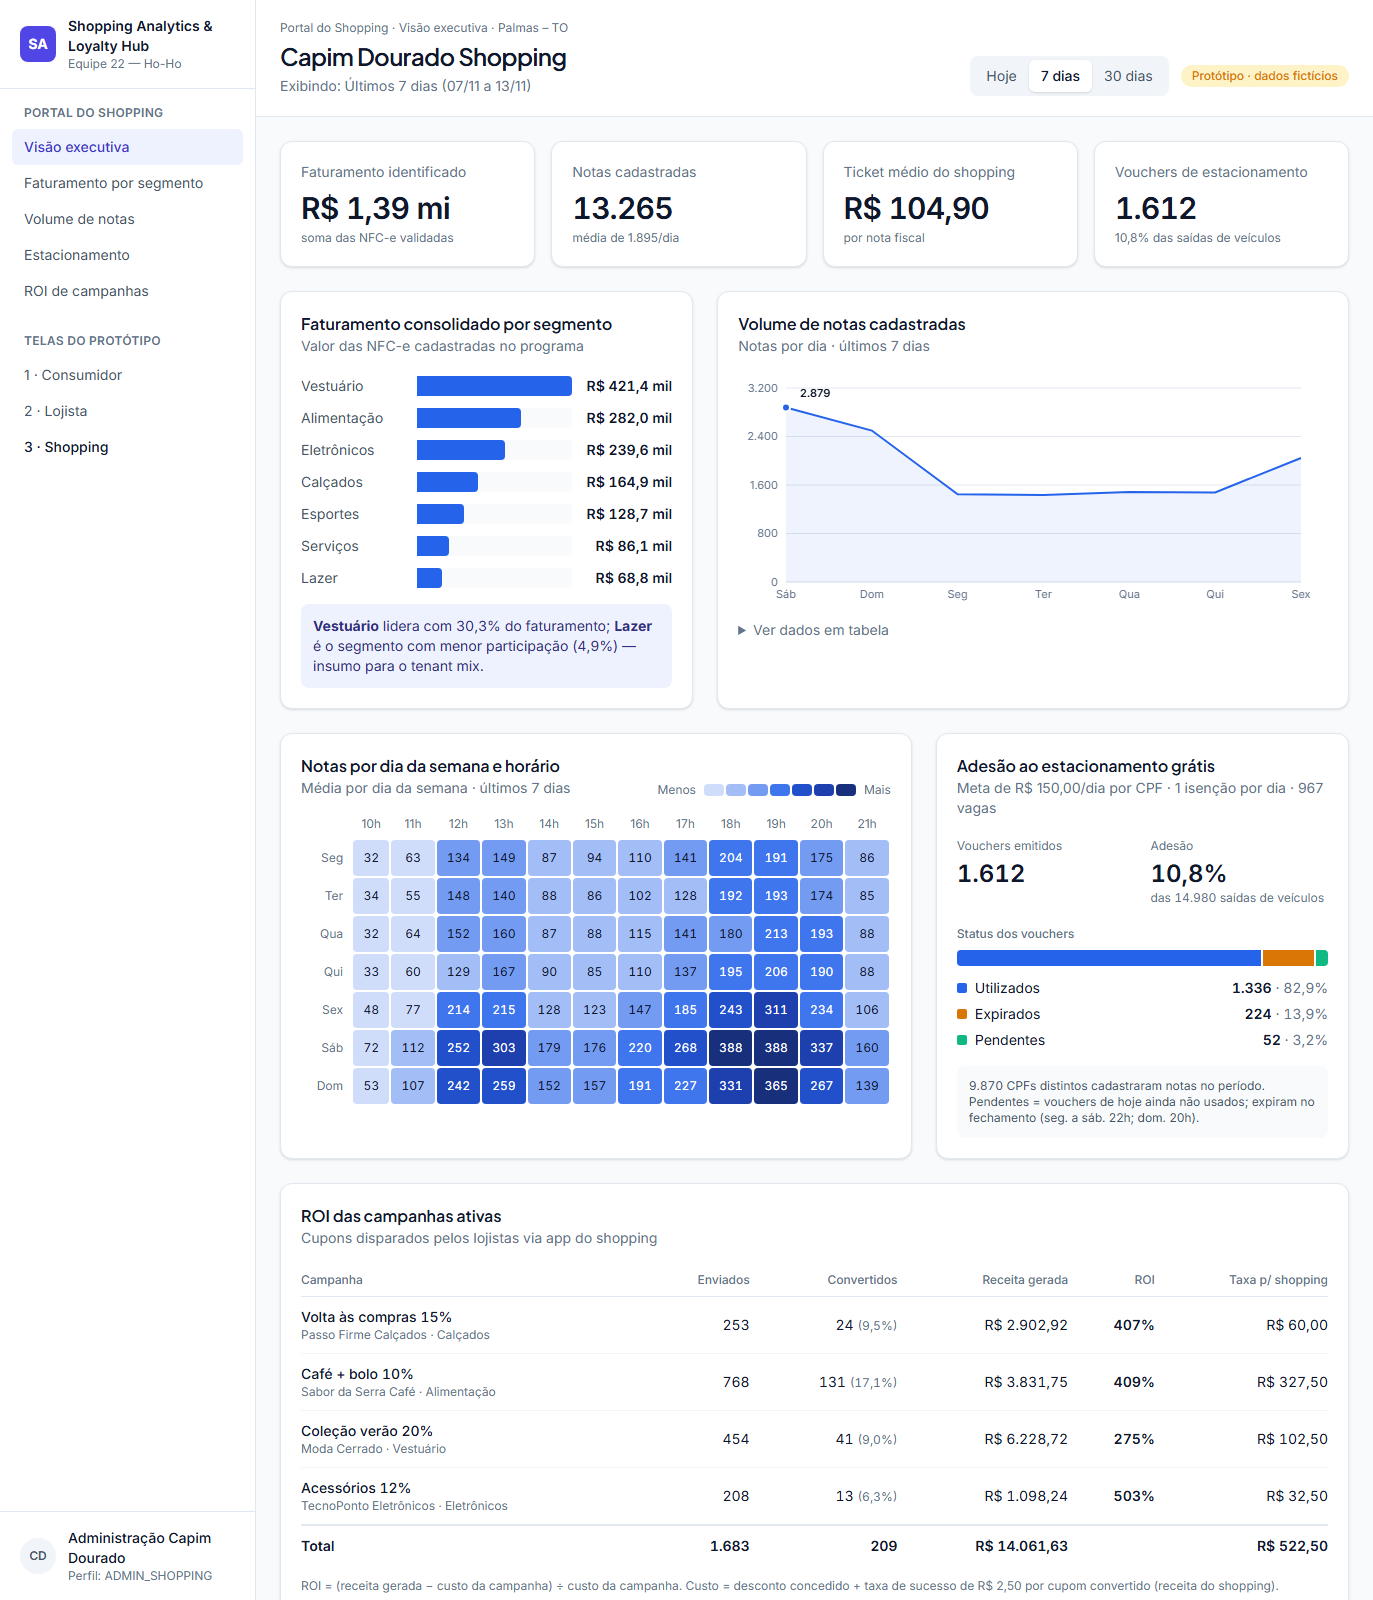
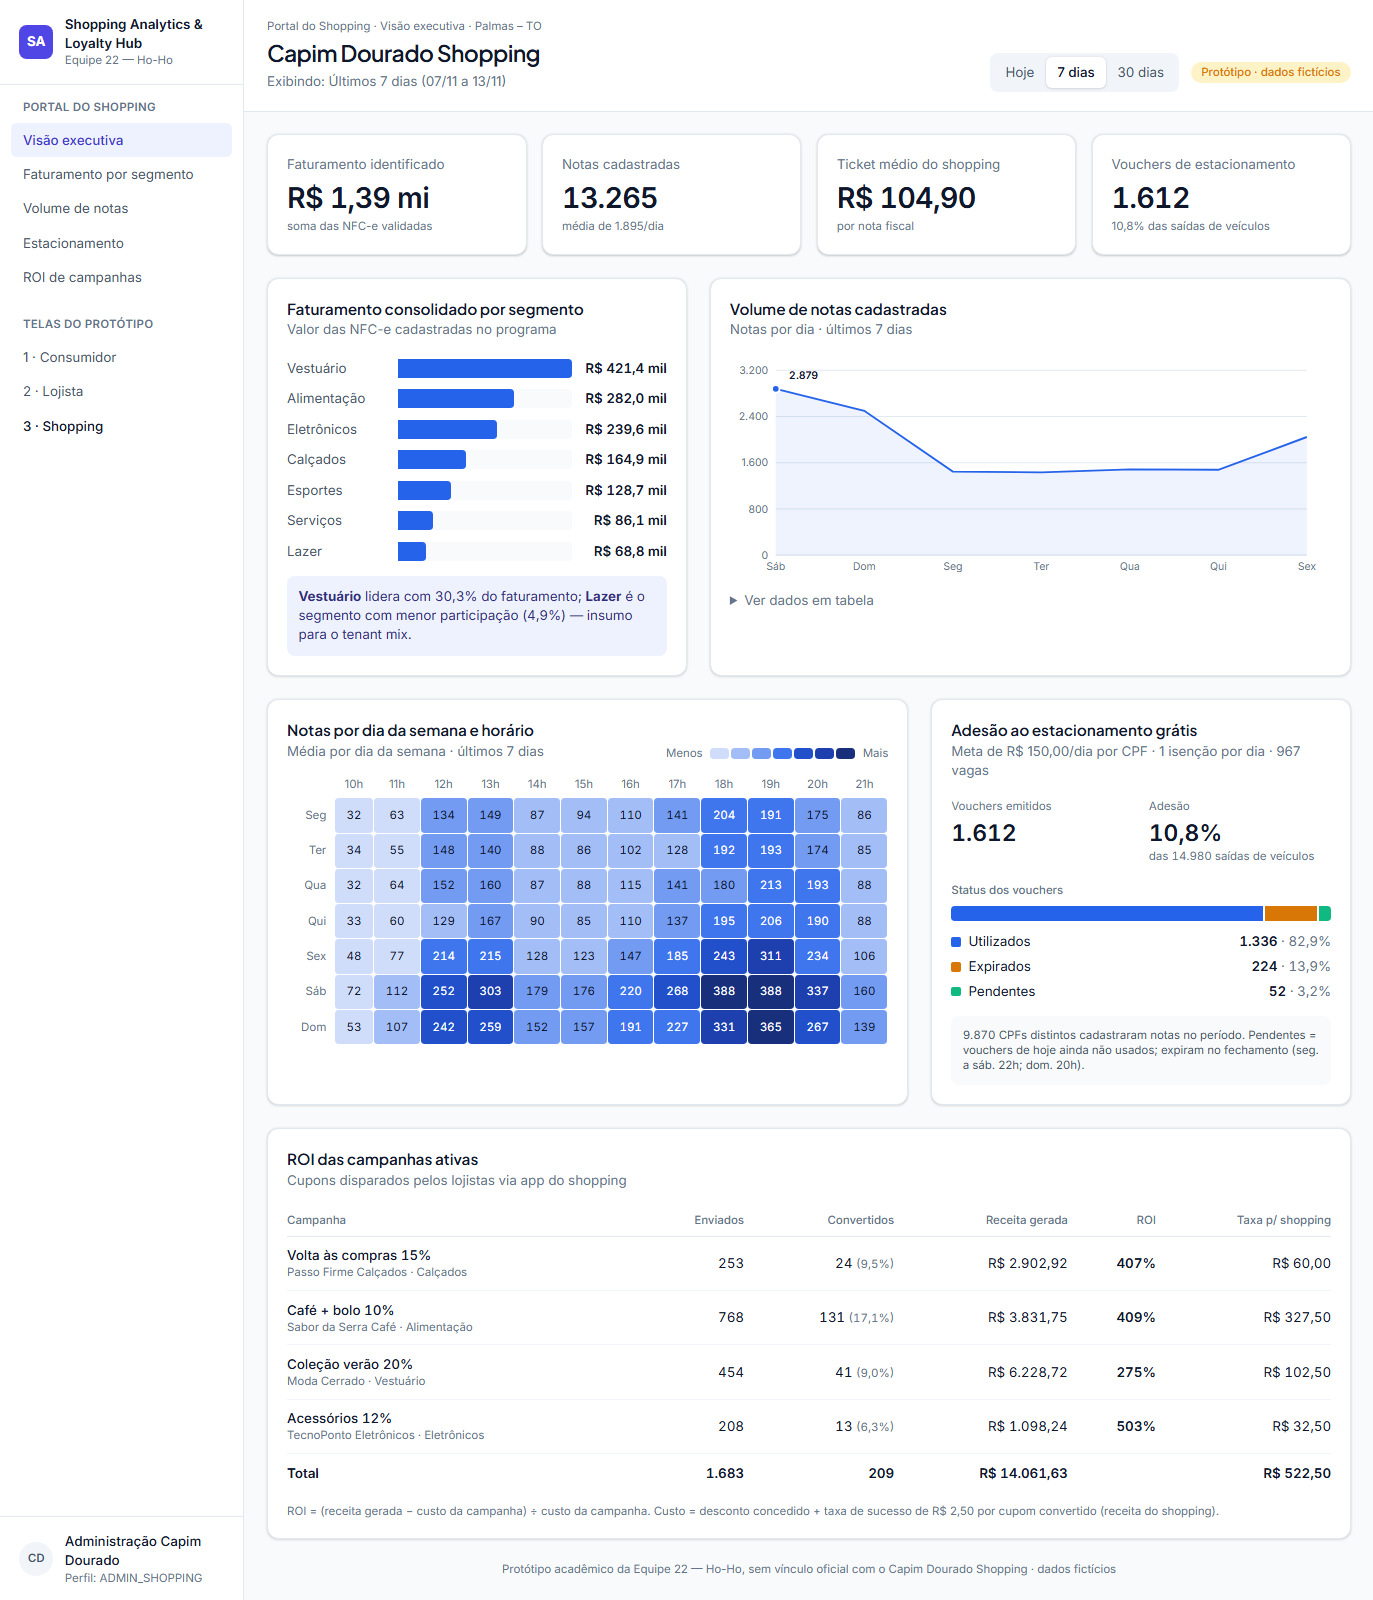
docs(specs): ajusta a prova do C1 a escala da captura da ORD-12
Decisões do usuário durante o BUILD: a marca de dado fictício fica como está (C14 fechado) e a imagem de execução do C1 passa a ser tirada em janela de 1440 x 1678 a escala 0,9535, a escala medida na figura4. Imagem refeita nessa condição.

diff --git a/.specs/features/ord-12-portal-shopping/checks.md b/.specs/features/ord-12-portal-shopping/checks.md
@@ -32,7 +32,7 @@ Plan: `.specs/features/ord-12-portal-shopping/plan.md`
 ### S1 - A tela contra o mockup
 
 **C1** - A visão executiva carregada no período `7 dias` corresponde a `.specs/features/ord-12-portal-shopping/captures/portal-shopping.png` (AC 1)
-Proof: browser - entrar com perfil `ADMIN_SHOPPING`, abrir a Tela 3 no período `7 dias`, salvar `captures/portal-shopping.running.png` em viewport de 1373 x 1600
+Proof: browser - entrar com perfil `ADMIN_SHOPPING`, abrir a Tela 3 no período `7 dias`, salvar `captures/portal-shopping.running.png` em janela de 1440 x 1678 a escala 0,9535 (imagem de 1373 x 1600, a escala medida na captura)
 
 **C2** - O selo `Protótipo · dados fictícios` está no cabeçalho nos estados carregado, vazio e erro (AC 2)
 Proof: walk - abrir a Tela 3 carregada, no período sem notas e com o backend fora do ar, e ler o cabeçalho em cada um
@@ -140,8 +140,8 @@ Proof: walk - com a rede estrangulada, escolher `30 dias` e, antes da resposta, 
 
 ## Handoff
 
-- **Settled mid-build:** nenhuma decisão nova durante o BUILD. O usuário reafirmou, ao pedir o resumo de continuidade: "Preserve especialmente a regra de não trabalhar nas tarefas dos colegas e não fazer push, merge ou deploy sem autorização."
+- **Settled mid-build:** O usuário reafirmou, ao pedir o resumo de continuidade: "Preserve especialmente a regra de não trabalhar nas tarefas dos colegas e não fazer push, merge ou deploy sem autorização." Marca de dado fictício (C14), escolhida entre manter, asterisco visível ou selo por painel: "Manter como está (Recomendado)" - selo global, dica ao passar o ponteiro e texto para leitor de tela, sem divergir da figura4. Prova do C1, depois de medida a escala de 0,95 da figura4: "Ajustar à escala (Recomendado)" - a prova passa de viewport de 1373 x 1600 para janela de 1440 x 1678 a escala 0,9535.
 - **Dispatched:** <ainda não - aguardando a decisão do usuário sobre a marca visível de dado fictício (C14) e sobre a escala da imagem do C1>
-- **Boundary:** C4-C13, C23, C24 e C25 fechados em `998a860` (`run analytics`: 13 de 13, exit code 0). C1: `captures/portal-shopping.running.png` salva em `9dc5394`, aguardando o sub-agente de screens. C2, C3, C15-C20 e C22 visitados em `57aa7cb` com o resultado que o check pede. C14 visitado, mas aberto: a marca é dica ao passar o ponteiro, texto para leitor de tela e o selo global; uma marca sempre visível depende do usuário. C21 parcial: os cinco itens do Portal do Shopping navegam e ficam ativos; `1 · Consumidor` e `2 · Lojista` não navegam até o ORD-03 (issue #3) registrar as rotas.
+- **Boundary:** C4-C13, C23, C24 e C25 fechados em `998a860` (`run analytics`: 13 de 13, exit code 0). C1: `captures/portal-shopping.running.png` salva de novo na escala da captura, aguardando o sub-agente de screens. C2, C3, C15-C20 e C22 visitados em `57aa7cb` com o resultado que o check pede. C14 visitado e fechado com a marca que o usuário escolheu: dica ao passar o ponteiro, texto para leitor de tela e o selo global. C21 parcial: os cinco itens do Portal do Shopping navegam e ficam ativos; `1 · Consumidor` e `2 · Lojista` não navegam até o ORD-03 (issue #3) registrar as rotas.
 - **Abandoned:** `SectorBarChart` e `HourHeatmap` sobre `Recharts` - o `Recharts` não tem mapa de calor e a captura desenha os setores como lista de rótulo, barra e valor, sem eixo; o hop 5 do `Shape` foi corrigido em `9dc5394`. Cenário `erro` do preview por contagem de falhas - o StrictMode do `npm run dev` cancela e refaz a primeira consulta, e a chamada cancelada consumia a contagem; trocado por um botão do preview em `57aa7cb`.
 - **Walked:** visitas conduzidas pelo autor (o agente) em Edge headless dirigido por um script de DevTools Protocol fora do repositório, com cliques disparados pelo DOM e leitura do texto da tela - não é teste versionado e não substitui a visita de uma pessoa antes da banca. Como alcançar cada estado: `cd frontend && npm run dev` e abrir `http://localhost:5173/preview-tela-3.html?cenario=<c>`, com `<c>` em `normal`, `vazio`, `erro`, `401`, `403`, `lento` ou `corrida` (o build de produção não inclui essa página). C2: o cabeçalho trouxe `Protótipo · dados fictícios` em `normal`, `vazio` e `erro`. C3: o rodapé trouxe o texto exato do critério 3. C14: 10 marcas `Dado fictício: o modelo de dados atual não sustenta este valor` - rodapé do KPI de vouchers, adesão, `14.980` saídas, bloco de status dos vouchers, `9.870` CPFs e os cabeçalhos `Enviados`, `Convertidos`, `Receita gerada`, `ROI` e `Taxa p/ shopping`. C15 (`lento`): antes da resposta, esqueleto com 4 cartões de KPI e 27 blocos, nenhum KPI e `Carregando…` no cabeçalho; os dados entraram quando a resposta chegou. C16 (`vazio`): `Sem notas cadastradas no período`; `Hoje` ficou pressionado, o cabeçalho passou a `Exibindo: Hoje, 13/11` e o estado vazio se manteve. C17 (`erro`): `Não foi possível carregar o dashboard` com `Tentar novamente`; com a origem ainda fora, o clique mostrou o esqueleto e voltou ao erro; com a origem religada, o clique trouxe os KPIs do mesmo período `7 dias`. C18 (`401` e `403`): `Você não tem permissão para ver este painel`, sem `#kpis`, sem `R$` e sem dígito na área principal além do `22` do rodapé. C19 (`normal`): `Hoje` deu `Exibindo: Hoje, 13/11` e `2.045` notas `até o momento`; `30 dias` deu `Exibindo: Últimos 30 dias (15/10 a 13/11)` e `56.207` notas; `7 dias` voltou a `Exibindo: Últimos 7 dias (07/11 a 13/11)` e `13.265` notas. C20: a tabela abriu com 7, 30 e 12 linhas em `7 dias`, `30 dias` e `Hoje`, o mesmo número de pontos da curva, com os valores da série. C21: cada item do Portal do Shopping ficou com `aria-current` e rolou a página até a seção (em `Estacionamento` e `ROI de campanhas`, até o fim da página, que não rola mais); `3 · Shopping` marcado como página atual; `1 · Consumidor` e `2 · Lojista` sem endereço. C22 (`corrida`): `30 dias` e, 0,3 s depois, `Hoje`; a tela mostrou `Hoje, 13/11` e continuou em `Hoje` depois que a resposta de `30 dias` chegou.

diff --git a/.specs/features/ord-12-portal-shopping/plan.md b/.specs/features/ord-12-portal-shopping/plan.md
@@ -207,9 +207,10 @@ reposicionar nada que a captura desenhe.
 - O que a captura **não** desenha fica abaixo da dobra de 1600 px e, pela regra 9 da skill, é provado
   por `walk`, sem imagem e sem juiz.
 - Todos os quatro mockups do projeto têm exatamente 1600 px de altura, o que indica recorte na
-  captura e não página inteira. Por isso esta feature usa **uma** captura, e a imagem de execução é
-  tirada em viewport de 1373 x 1600 em navegador headless, que reproduz o tamanho exigido sem
-  recortar nem alterar a fonte original.
+  captura e não página inteira. Por isso esta feature usa **uma** captura. A figura4 foi tirada a
+  escala de cerca de 0,95 (a barra lateral de 256 px CSS mede 243 px na imagem), então a imagem de
+  execução é tirada em navegador headless em janela de 1440 x 1678 a escala 0,9535, o que dá
+  1373 x 1600 sem recortar nem alterar a fonte original (decisão do usuário durante o BUILD).
 - **Duas fontes de número, com papéis distintos.** A fixture recria os valores da captura, para que
   a comparação de imagem feche; os critérios de aceite fixam as regras com exemplos independentes,
   escolhidos justamente para não coincidir com nada que a captura desenhe. Um critério que repetisse
